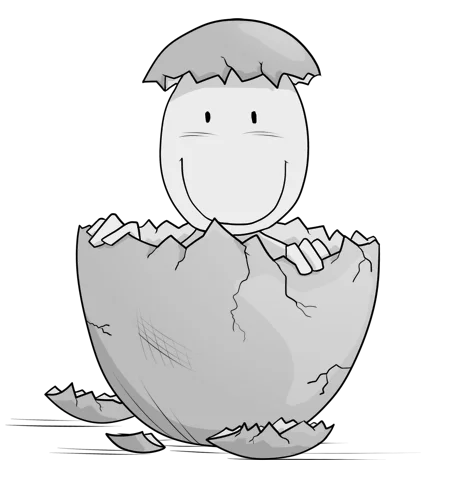
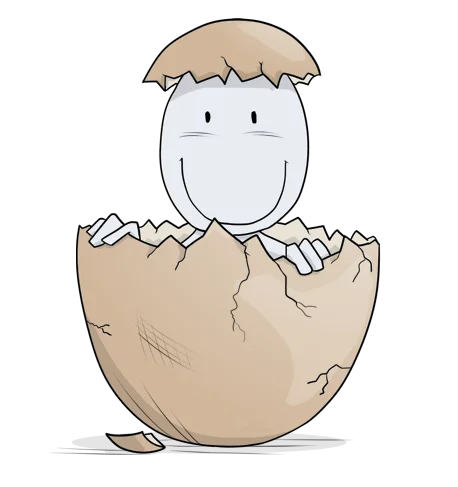
about color

diff --git a/src/content/authors/dra-valina.md b/src/content/authors/dra-valina.md
@@ -4,4 +4,4 @@ image: /src/assets/images/authors/dra-valina.webp
 description: Lina para las amigas
 ---
 
-No es doctora, es cajera del Aldi. Conoció al doctor Fenilalanino (que, recuerden, tampoco es doctor) en una manifestación en la sección de ultraprocesados del supermercado. Desde entonces mantienen una relación inestable y luchan por el bien nutricional de la humanidad a través de la divulgación científica y la quema de panteras rosas y bollycaos.
+No es doctora, es cajera de un supermercado. Conoció al doctor Fenilalanino (que, recuerden, tampoco es doctor) en una manifestación en la sección de ultraprocesados de dicho supermercado. Desde entonces mantienen una relación inestable y luchan por el bien nutricional de la humanidad a través de la divulgación científica y la quema de panteras rosas y bollycaos.
